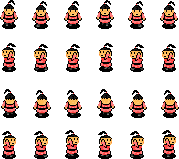
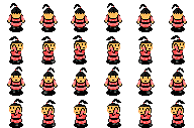
fixed some art and added particle effect

diff --git a/src/game/entity/mob/Zombie.java b/src/game/entity/mob/Zombie.java
@@ -1,8 +1,10 @@
 package game.entity.mob;
 
 import game.entity.Entity;
+import game.entity.particles.Particle;
 import game.gfx.Art;
 import game.gfx.Screen;
+import game.level.tile.Tile;
 import game.math.Direction;
 import game.math.Vector2d;
 import game.math.Vector2i;
@@ -13,7 +15,7 @@ import game.math.Vector2i;
 public class Zombie extends Mob {
 
 	private int ticksElapsed = 0;
-	private int frame = 0, dirChangeTime;
+	private int dirChangeTime;
 	
 	public Zombie(int x, int y) {
 		super(x, y);
@@ -32,12 +34,6 @@ public class Zombie extends Mob {
 			}
 		}
 		
-		if(ticksElapsed % 30 == 0) {
-			frame++;
-			if(frame >= Art.human_male[dir].length) {
-				frame = 0;
-			}
-		}
 		ticksElapsed++;
 		if (ticksElapsed > 60 * 30) {
 			ticksElapsed = 0;
@@ -57,11 +53,15 @@ public class Zombie extends Mob {
 		Vector2i pos = hum.getPos();
 		hum.die();
 		level.addEntity(new Zombie(pos.x, pos.y));
+		int numParts = random.nextInt(20) + 1;
+		for(int i = 0; i < numParts; i++) {
+			level.addEntity(new Particle(pos.x * Tile.WIDTH + random.nextDouble() * (Tile.WIDTH / 2), pos.y * Tile.HEIGHT + random.nextDouble() * (Tile.HEIGHT / 2), random.nextDouble(), random.nextDouble() * 3, Art.human_male[0][0]));
+		}
 	}
 
 	@Override
 	public void render(Screen s) {
 		Vector2d pos = getDrawPos();
-		s.draw(Art.zombie[frame][dir], pos.x, pos.y);
+		s.draw(Art.zombie[dir][0], pos.x, pos.y);
 	}
 }

diff --git a/src/game/entity/particles/Particle.java b/src/game/entity/particles/Particle.java
@@ -4,6 +4,7 @@ import game.entity.Entity;
 import game.gfx.Art;
 import game.gfx.Bitmap;
 import game.gfx.Screen;
+import game.level.tile.Tile;
 
 /**
  * Represents a particle to be generated on the fly
@@ -29,6 +30,7 @@ public class Particle extends Entity {
 	 * @param bm the bitmap to look like.
 	 */
 	public Particle(double x, double y, double xa, double ya, Bitmap bm) {
+		setPos((int)(x / Tile.WIDTH), (int)(y / Tile.HEIGHT));
 		this.x = x;
 		this.y = y;
 		double pow = random.nextDouble() * 1 + 1;
@@ -38,15 +40,15 @@ public class Particle extends Entity {
 		life = random.nextInt(20) + 50;
 		
 		b = new Bitmap(4,4);
-		b.clear(Art.getColour(bm) | randomColorShift());
+		b.clear(Art.getColour(bm)/* | randomColorShift()*/);
 	}
 	
-	private int randomColorShift() {
+	/*private int randomColorShift() {
 		int r = random.nextInt(0x00FF0000) & 0x00FF0000;
 		int g = random.nextInt(0x0000FF00) & 0x0000FF00;
 		int b = random.nextInt(0x000000FF) & 0x000000FF;
 		return 0xFF000000 | r | g | b;
-	}
+	}*/
 
 	@Override
 	public void tick() {

diff --git a/src/game/gfx/Art.java b/src/game/gfx/Art.java
@@ -25,6 +25,7 @@ public class Art {
 	//mob
 	public static Bitmap[][] human_male = cut("/art/mob/human_male.png", 32, 32);
 	public static Bitmap[][] human_female = cut("/art/mob/human_female.png", 32, 32);
+
 	public static Bitmap[][] player = cut("/art/mob/player.png", 32, 32);
 	public static Bitmap[][] zombie = cut("/art/mob/zombie.png", 32, 32);
 	
@@ -72,12 +73,12 @@ public class Art {
 			int xTiles = (bi.getWidth() - bx) / w;
 			int yTiles = (bi.getHeight() - by) / h;
 
-			Bitmap[][] result = new Bitmap[xTiles][yTiles];
+			Bitmap[][] result = new Bitmap[yTiles][xTiles];
 
-			for (int x = 0; x < xTiles; x++) {
-				for (int y = 0; y < yTiles; y++) {
-					result[x][y] = new Bitmap(w, h);
-					bi.getRGB(bx + x * w, by + y * h, w, h, result[x][y].pixels, 0, w);
+			for (int y = 0; y < yTiles; y++) {
+				for (int x = 0; x < xTiles; x++) {
+					result[y][x] = new Bitmap(w, h);
+					bi.getRGB(bx + x * w, by + y * h, w, h, result[y][x].pixels, 0, w);
 				}
 			}
 

diff --git a/src/game/entity/mob/Human.java b/src/game/entity/mob/Human.java
@@ -11,7 +11,7 @@ import game.math.Vector2d;
 public class Human extends Mob {
 
 	private int ticksElapsed = 0;
-	private int frame = 0, dirChangeTime;
+	private int dirChangeTime;
 	private boolean male;
 	
 	public Human(int x, int y) {
@@ -32,12 +32,6 @@ public class Human extends Mob {
 			}
 		}
 		
-		if(ticksElapsed % 30 == 0) {
-			frame++;
-			if(frame >= Art.human_male[dir].length) {
-				frame = 0;
-			}
-		}
 		ticksElapsed++;
 		if (ticksElapsed > 60 * 30) {
 			ticksElapsed = 0;
@@ -48,9 +42,9 @@ public class Human extends Mob {
 	public void render(Screen s) {
 		Vector2d pos = getDrawPos();
 		if(male) {
-			s.draw(Art.human_male[frame][dir], pos.x, pos.y);
+			s.draw(Art.human_male[dir][0], pos.x, pos.y);
 		} else {
-			s.draw(Art.human_female[frame][dir], pos.x, pos.y);
+			s.draw(Art.human_female[dir][0], pos.x, pos.y);
 		}
 	}
 }

diff --git a/src/game/entity/mob/Player.java b/src/game/entity/mob/Player.java
@@ -50,7 +50,7 @@ public class Player extends Zombie {
 		if(ticksElapsed > 12) {
 			ticksElapsed = 0;
 			frame++;
-			if(frame >= Art.player.length) {
+			if(frame >= Art.player[dir].length) {
 				frame = 0;
 			}
 		}
@@ -60,6 +60,6 @@ public class Player extends Zombie {
 	@Override
 	public void render(Screen s) {
 		Vector2d pos = getDrawPos();
-		s.draw(Art.player[frame][dir], pos.x, pos.y);
+		s.draw(Art.player[dir][frame], pos.x, pos.y);
 	}
 }
